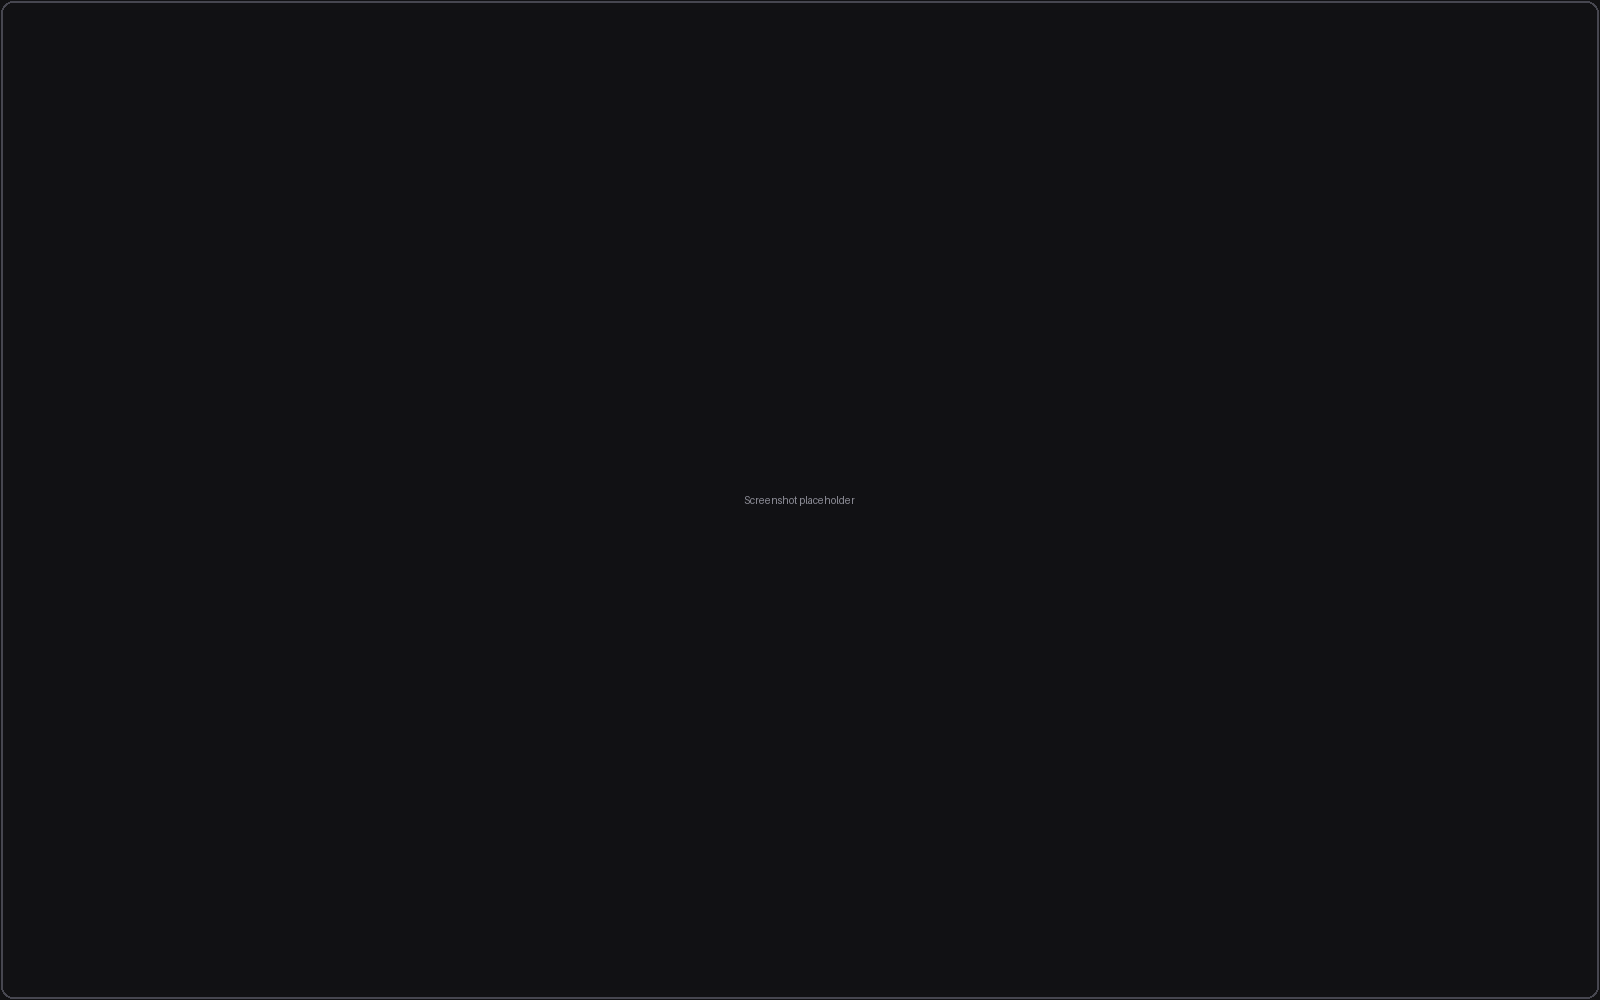
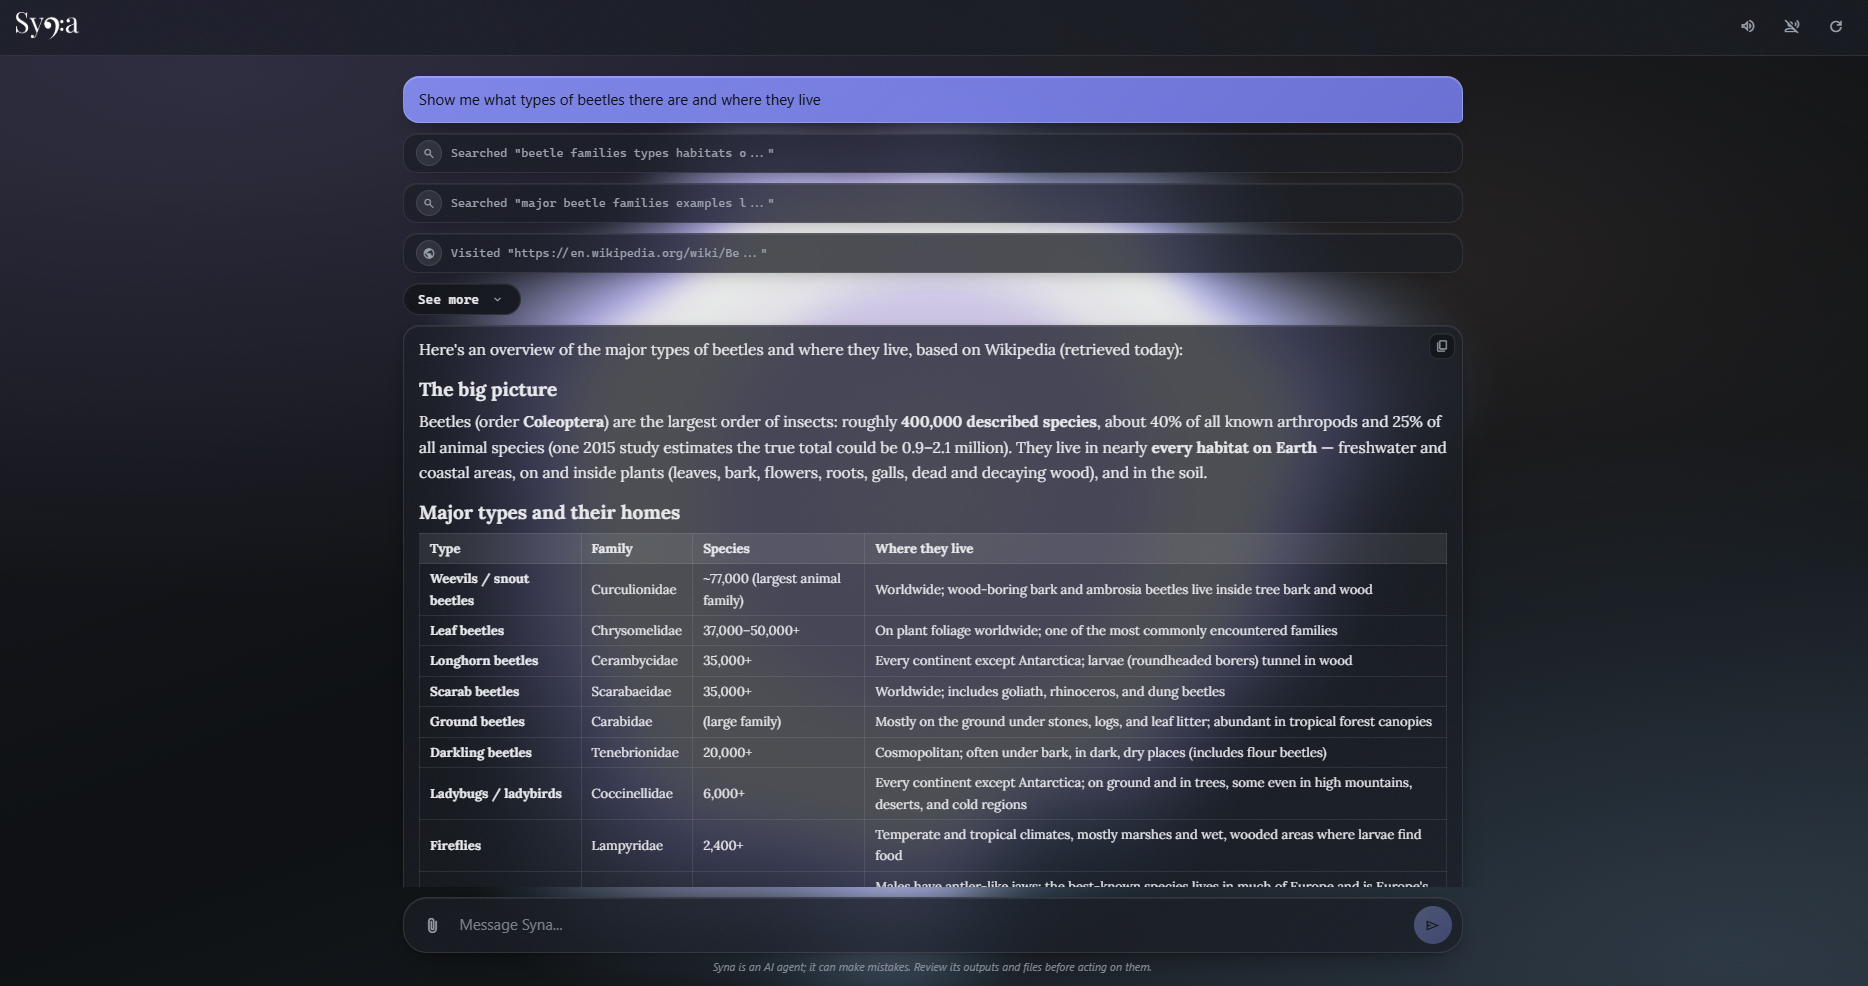
screenshot, better prompt guidance

diff --git a/src/syna/assets/prompt.md b/src/syna/assets/prompt.md
@@ -96,7 +96,7 @@ Facts in deliverables (names, numbers, dates, prices, quotes, links, and other c
 - Today's date is {{CURRENT_DATE}}. Your training data ends earlier, so assume things may have changed.
 - Work in `/workspace`. The pod and its files last for this whole conversation. The user can't see the pod's filesystem; deliverables reach them only through `share_file`.
 - Large user messages are archived verbatim in the pod at `/user_messages/NNNNNN.txt` (read-only, one file per message, numbered in order). When a message carries data you need to process, quote, or build on exactly, pipe that file into your scripts instead of retyping its contents.
-- For tasks that involve images, you may inline up to a couple that are relevant to the task and that the user might be interested in, even if they didn't explicitly ask for them. To show an image from the pod directly in your reply, write markdown image syntax with the absolute pod path, e.g. `![chart](/workspace/images/chart.png)`, and the web UI renders it inline. Only image files under `/workspace/` render this way. When explicitly asked for an image, use `share_file` instead of inlining it, since inline images can't be downloaded by the user.
+- Whenever a picture or a chart could help the user better understand your results, include it inline in your reply. To do this, write markdown image syntax with the absolute pod path, e.g. `![chart](/workspace/images/chart.png)`, and the web UI will render it inline. Only image files under `/workspace/` render this way. When explicitly asked for an image, use `share_file` instead of inlining it, since inline images can't be downloaded by the user.
 - Each `execute_command` runs in a new, non-interactive bash process starting in `/workspace`. Directory changes, exported variables, and activated virtualenvs don't carry over between calls: use absolute paths, or chain steps with `&&` in one command.
 - Stdin is closed, so anything that waits for input fails. Use non-interactive forms (`apt-get install -y`, `git --no-pager`, `git commit -m "..."`) and don't start editors, pagers, REPLs, or full-screen programs (`vim`, `less`, `top`, a bare `python3`).
 - Commands time out after {{COMMAND_TIMEOUT}} seconds. Run anything longer (servers, large builds, big downloads) in the background with output sent to a log, e.g. `nohup python3 server.py > /workspace/logs/server.log 2>&1 &`, then check the log with `tail`.
